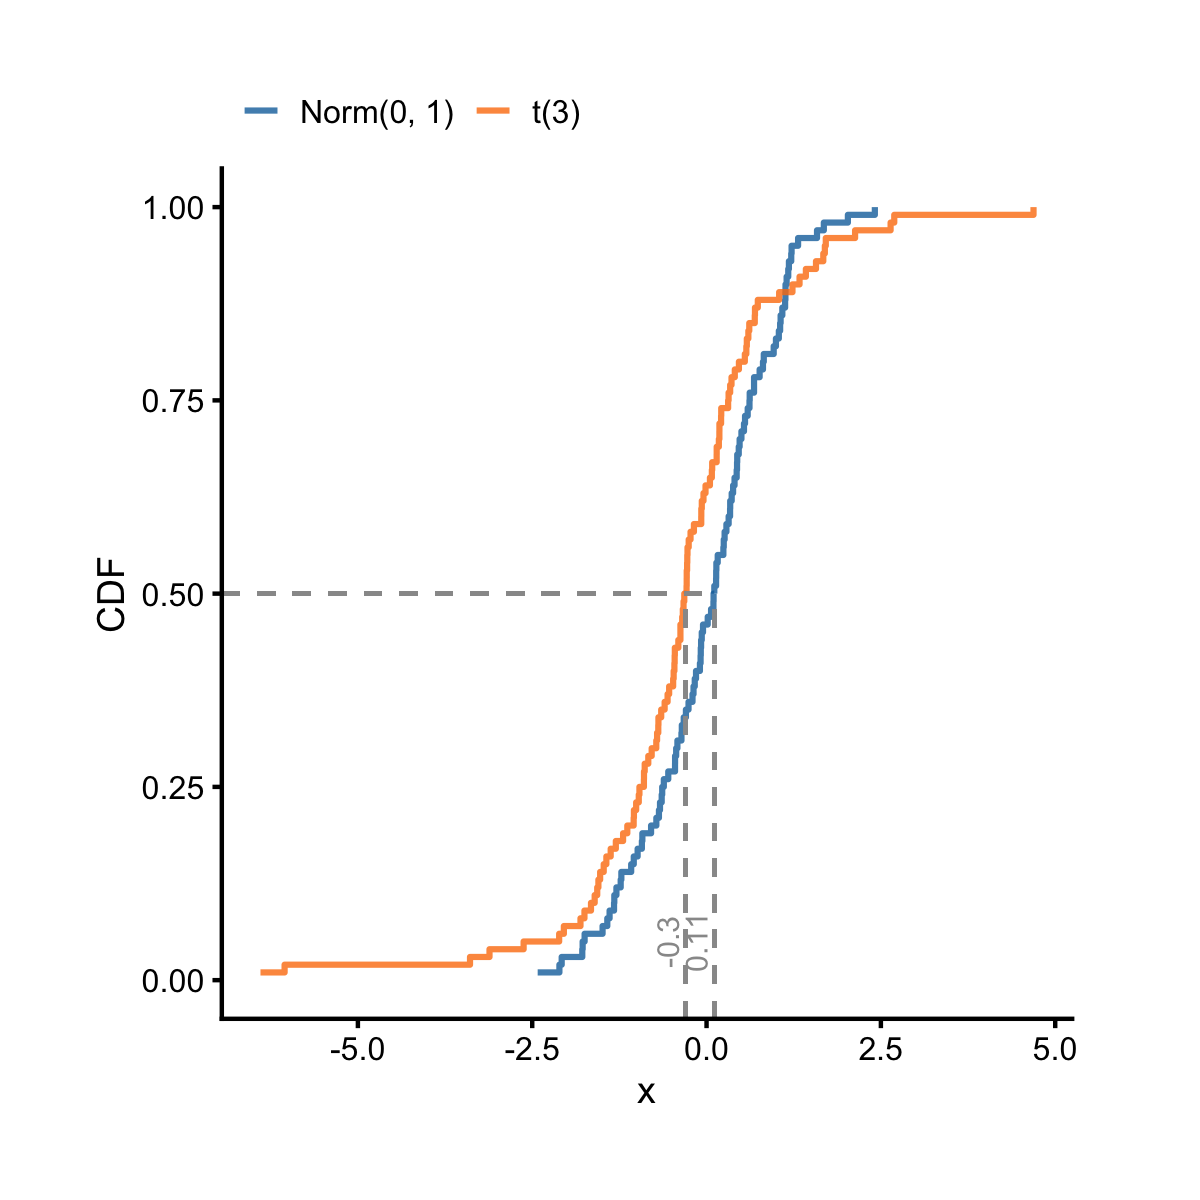
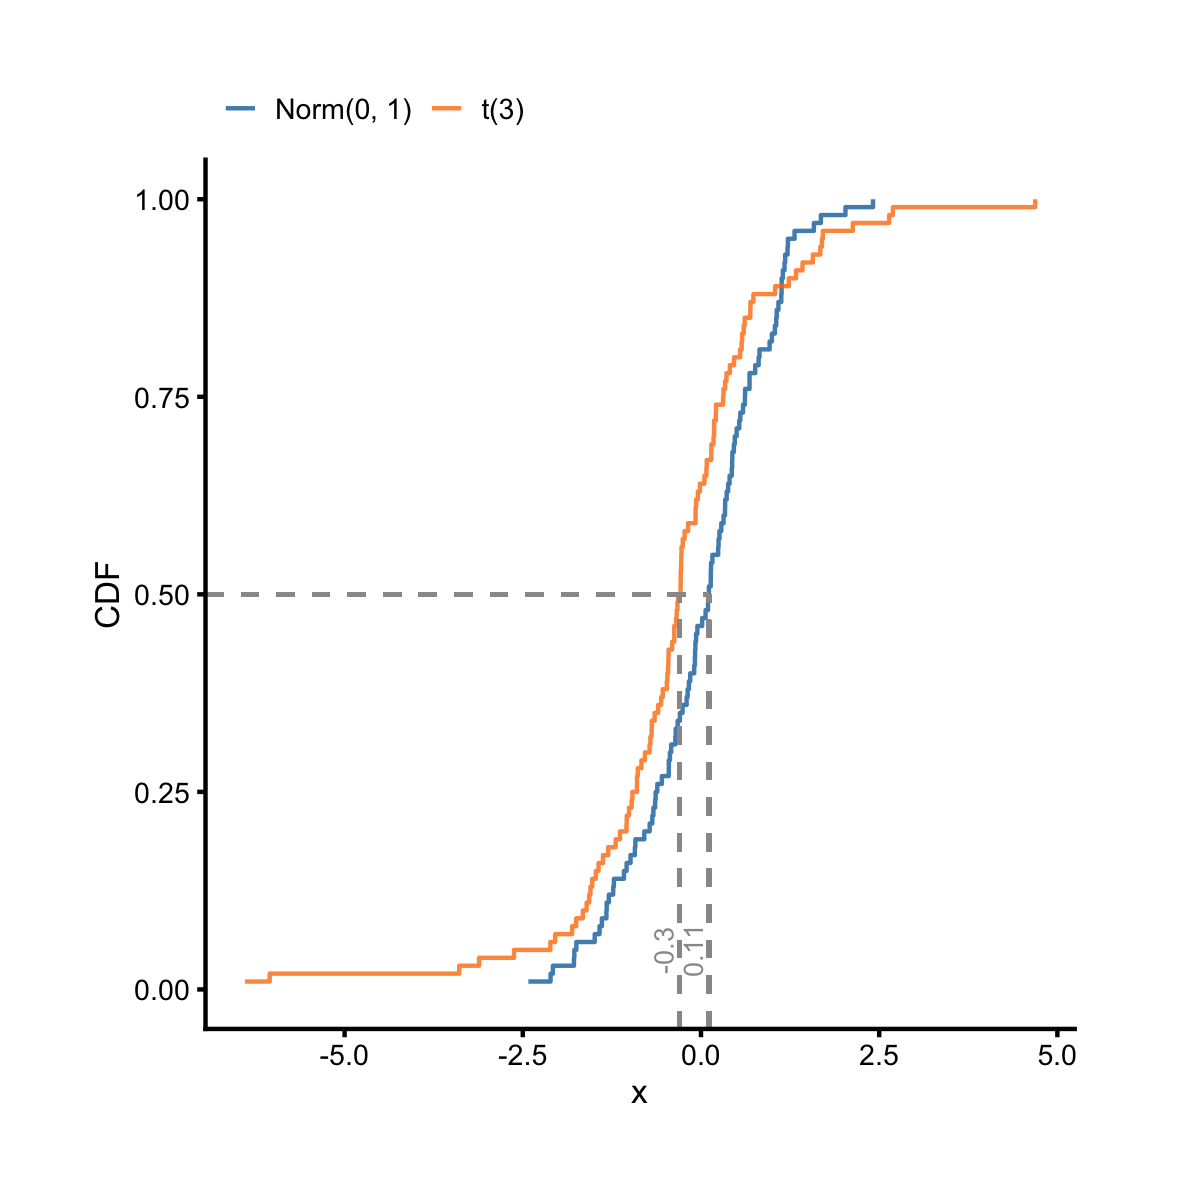
no message

diff --git a/manuscript/02-04-cdfplot.md b/manuscript/02-04-cdfplot.md
@@ -10,8 +10,8 @@ set.seed(123923)
 df = rbind(data.frame(x = rnorm(100), type = 'Norm(0, 1)'),
            data.frame(x = rt(100, df = 3), type = 't(3)'))
 plt = mk_cdfplot(df)
-plt('x', colorby='type', add_vline_median = TRUE, font_size = 9, 
-    legend_title = NULL, legend_pos = 'top', pad = FALSE) %>% 
+plt('x', colorby='type', add_vline_median = TRUE, font_size = 8, 
+    linew = 0.5, legend_title = NULL, legend_pos = 'top', pad = FALSE) %>% 
         square_fig()
 ```
 
@@ -33,7 +33,7 @@ dat = rbind(births %>% filter(!is.na(diffs)) %>%
             )
 # plot CDFs of observed data and sample data from exponential model
 f = mk_cdfplot(dat)
-f("diffs", colorby = 'type', pad = F, font_size = 9, 
+f("diffs", colorby = 'type', pad = F, font_size = 8, linew = 0.5, 
   legend_title = NULL, legend_pos = 'top',
   add_vline_median = T, show_label_median = F) %>%
         scale_axis(axis = 'x', nticks = 10) %>%
@@ -47,7 +47,7 @@ We see the blue (data) and the orange (model) curves overlap up to about 60 minu
 
 ```r
 f("diffs", complement = TRUE, colorby = 'type', pad = FALSE, 
-  legend_title = NULL, legend_pos = 'top', font_size = 9, 
+  legend_title = NULL, legend_pos = 'top', font_size = 8, linew = 0.5,  
   add_vline_median = T, show_label_median = F) %>%
         scale_axis(axis = 'y', scale = 'log') %>%
         scale_axis(axis = 'x', nticks = 10) %>%
